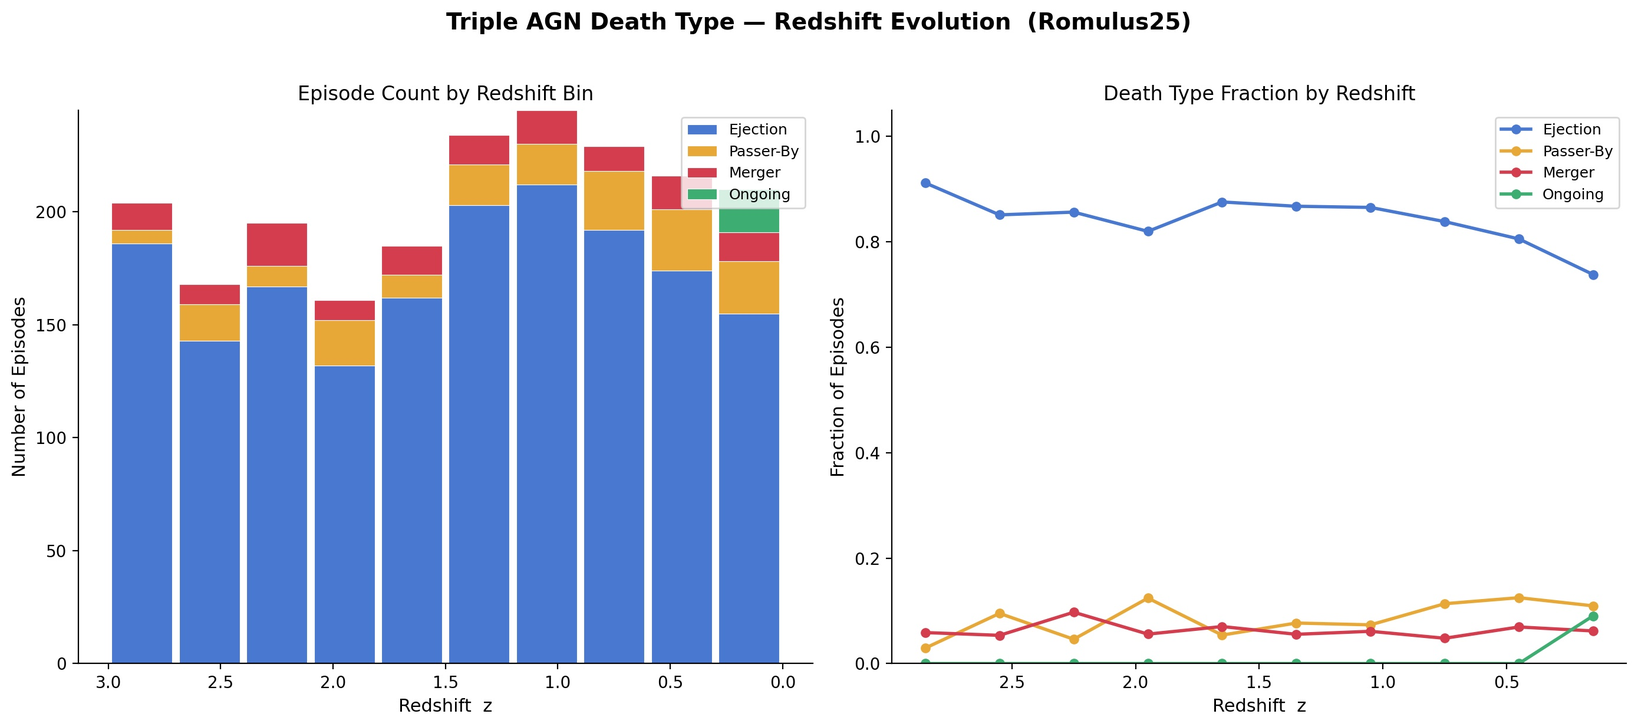
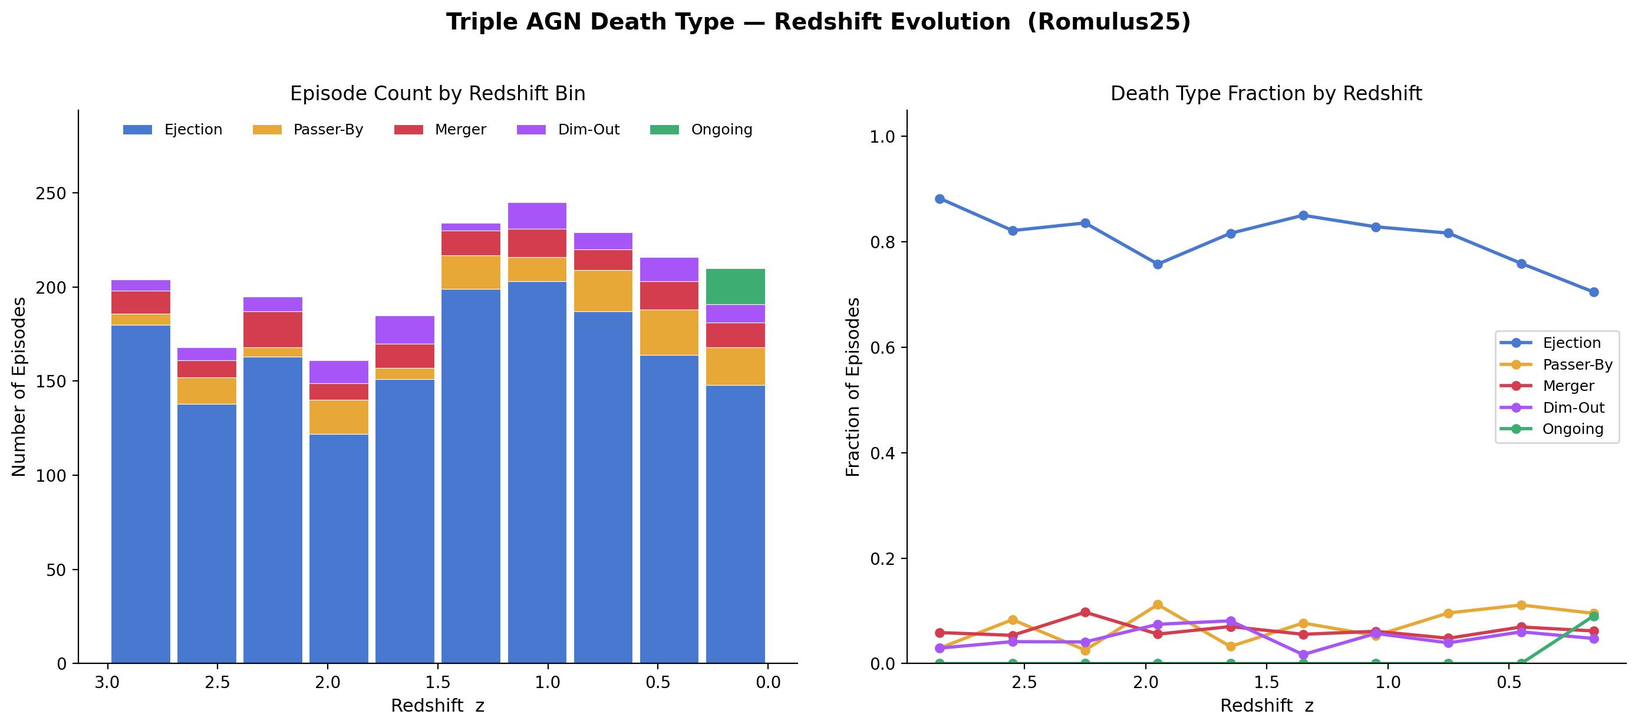
updates

diff --git a/main.tex b/main.tex
@@ -65,7 +65,7 @@ natbib=true
 \maketitle
 
 \begin{abstract}
-Hierarchical galaxy formation naturally predicts the existence of systems hosting multiple supermassive black holes (SMBHs), and when gas is available, such systems may manifest as multiple active galactic nuclei (AGN). While dual AGNs have been studied extensively in both observations and simulations, triple AGN systems remain relatively unexplored, despite their importance for further understanding things like SMBH dynamics and merger-driven accretion. Recent observational discoveries of nearby kpc-scale triple AGNs have highlighted the need for theoretical predictions that place these rare systems in a broader cosmological context. In this work, we investigate the properties of triple AGN systems in the Romulus25 cosmological hydrodynamical simulation. Romulus25 uniquely incorporates a physically motivated treatment of unresolved dynamical friction, enabling SMBHs to remain coupled to their host galaxies and to interact down to sub-kiloparsec scales. Building on previous analyses of dual AGNs in Romulus, we identify candidate triple AGN systems using AGN bolometric luminosity and spatial proximity criteria motivated by observations. We examine their redshift evolution, SMBH masses and luminosities, separations, host halos, lifetimes, and fates, test how the census depends on the luminosity threshold and search radius, and repeat the selection in projection with a cylinder of $30\,\mathrm{kpc}$ radius and $\pm 500\,\mathrm{km\,s^{-1}}$. Above $L_\mathrm{bol} = 10^{40}\,\mathrm{erg\,s^{-1}}$ we find 3,266 triple AGN system-snapshot instances from 1,397 unique systems between $z \approx 0.06$ and $z = 3$, with counts per snapshot rising by a factor of about three toward high redshift, driven mainly by the rising fraction of SMBHs that are accreting. Members typically lie $\sim 3\,\mathrm{kpc}$ apart, and the brightest member carries a median 88\% of the system luminosity. Most triple AGN episodes end because one member falls below the luminosity threshold while all three SMBHs remain together; only 6\% end in a merger and 3\% with a member leaving the $30\,\mathrm{kpc}$ neighbourhood. In projection, 82\% of selected triples are genuine three-dimensional triples and 89\% of genuine triples are recovered. Narrowing the velocity window increases contamination, whereas reducing the aperture radius to $20\,\mathrm{kpc}$ improves both purity and completeness. Radiative transfer of five simulated analogues of the triple merger candidate UGC\,2369S shows that dust absorbs between 24\% and 90\% of their starlight. By providing a systematic census of triple AGNs in a cosmological simulation, this study aims to establish a theoretical baseline for interpreting current observations and to guide future searches for multi-AGN systems.
+Hierarchical galaxy formation naturally predicts the existence of systems hosting multiple supermassive black holes (SMBHs), and when gas is available, such systems may manifest as multiple active galactic nuclei (AGN). While dual AGNs have been studied extensively in both observations and simulations, triple AGN systems remain relatively unexplored, despite their importance for further understanding things like SMBH dynamics and merger-driven accretion. Recent observational discoveries of nearby kpc-scale triple AGNs have highlighted the need for theoretical predictions that place these rare systems in a broader cosmological context. In this work, we investigate the properties of triple AGN systems in the Romulus25 cosmological hydrodynamical simulation. Romulus25 uniquely incorporates a physically motivated treatment of unresolved dynamical friction, enabling SMBHs to remain coupled to their host galaxies and to interact down to sub-kiloparsec scales. Building on previous analyses of dual AGNs in Romulus, we identify candidate triple AGN systems using AGN bolometric luminosity and spatial proximity criteria motivated by observations. We examine their redshift evolution, SMBH masses and luminosities, separations, host halos, lifetimes, and fates, test how the census depends on the luminosity threshold and search radius, and repeat the selection in projection with a cylinder of $30\,\mathrm{kpc}$ radius and $\pm 500\,\mathrm{km\,s^{-1}}$. Above $L_\mathrm{bol} = 10^{40}\,\mathrm{erg\,s^{-1}}$ we find 3,266 triple AGN system-snapshot instances from 1,397 unique systems between $z \approx 0.06$ and $z = 3$, with counts per snapshot rising by a factor of about three toward high redshift, driven mainly by the rising fraction of SMBHs that are accreting. Members typically lie $\sim 3\,\mathrm{kpc}$ apart, and the brightest member carries a median 88\% of the system luminosity. Most triple AGN episodes end because one member falls below the luminosity threshold while all three SMBHs remain together, usually through a drop to well below the threshold, so that only 5\% meet our Dim-Out criterion of a member falling just below it while the other two remain a dual AGN; only 6\% end in a merger and 3\% with a member leaving the $30\,\mathrm{kpc}$ neighbourhood. In projection, 82\% of selected triples are genuine three-dimensional triples and 89\% of genuine triples are recovered. Narrowing the velocity window increases contamination, whereas reducing the aperture radius to $20\,\mathrm{kpc}$ improves both purity and completeness. Radiative transfer of five simulated analogues of the triple merger candidate UGC\,2369S shows that dust absorbs between 24\% and 90\% of their starlight. By providing a systematic census of triple AGNs in a cosmological simulation, this study aims to establish a theoretical baseline for interpreting current observations and to guide future searches for multi-AGN systems.
 
 \end{abstract}
 \vspace{1em} 
@@ -142,7 +142,7 @@ In this paper, we present the first systematic census of triple AGN systems in t
 
 For each identified system we characterise the SMBH masses, bolometric luminosities, pairwise separations, host halo masses, and system lifetimes of all three members. We classify the Host (most massive), Neighbour~1 (N1), and Neighbour~2 (N2) by decreasing SMBH mass. We examine how these properties evolve with redshift and depend on the choice of luminosity threshold and separation cut.
 
-The key findings can be summarised as follows. Triple AGN systems are a natural and recurring product of hierarchical galaxy assembly in Romulus25, with their number density rising steadily from $z = 0$ to $z \approx 3$, mirroring the global rise in AGN activity. They are physically compact, with median pairwise separations of 2.9, 3.2, and 3.8\,kpc for the Host--N1, Host--N2, and N1--N2 pairs respectively, considerably more compact than the currently confirmed observational sample, implying a large population inaccessible to existing surveys. The SMBH mass distribution is asymmetric. The median Host is $\sim 3$ and $\sim 6$ times more massive than N1 and N2 respectively, a contrast that grows to one to two orders of magnitude in halos above $10^{12}\,M_\odot$, while N1 and N2 are drawn from a similar near-seed-mass population. This demonstrates that triple AGN formation does not require (and may in some cases \textit{precede}) significant growth of the secondary and tertiary SMBHs. The majority (61\%) of unique triple AGN systems are single-snapshot detections, reflecting the transient character of low-luminosity triple activity, while the multi-snapshot population has a median span of $1.44\,\mathrm{Gyr}$ from first to last detection and a long tail extending to $\sim 11\,\mathrm{Gyr}$, although these systems are typically detected as triples in only about a third of the snapshots they span. Most triple AGN episodes end when one member falls below the luminosity threshold while all three SMBHs remain within $30\,\mathrm{kpc}$; only 6\% end in a merger and 3\% with a member leaving that neighbourhood. In most systems a single nucleus dominates the light, carrying a median 88\% of the total. Selection in projection recovers 89\% of genuine triples with a purity of 82\%, and a $20\,\mathrm{kpc}$ aperture improves on both.
+The key findings can be summarised as follows. Triple AGN systems are a natural and recurring product of hierarchical galaxy assembly in Romulus25, with their number density rising steadily from $z = 0$ to $z \approx 3$, mirroring the global rise in AGN activity. They are physically compact, with median pairwise separations of 2.9, 3.2, and 3.8\,kpc for the Host--N1, Host--N2, and N1--N2 pairs respectively, considerably more compact than the currently confirmed observational sample, implying a large population inaccessible to existing surveys. The SMBH mass distribution is asymmetric. The median Host is $\sim 3$ and $\sim 6$ times more massive than N1 and N2 respectively, a contrast that grows to one to two orders of magnitude in halos above $10^{12}\,M_\odot$, while N1 and N2 are drawn from a similar near-seed-mass population. This demonstrates that triple AGN formation does not require (and may in some cases \textit{precede}) significant growth of the secondary and tertiary SMBHs. The majority (61\%) of unique triple AGN systems are single-snapshot detections, reflecting the transient character of low-luminosity triple activity, while the multi-snapshot population has a median span of $1.44\,\mathrm{Gyr}$ from first to last detection and a long tail extending to $\sim 11\,\mathrm{Gyr}$, although these systems are typically detected as triples in only about a third of the snapshots they span. Most triple AGN episodes end when one member falls below the luminosity threshold while all three SMBHs remain within $30\,\mathrm{kpc}$, usually by a drop to well below it; a Dim-Out, in which a member falls to just below the threshold while the other two remain a dual AGN, ends 5\% of episodes, a merger 6\%, and the departure of a member only 3\%. In most systems a single nucleus dominates the light, carrying a median 88\% of the total. Selection in projection recovers 89\% of genuine triples with a purity of 82\%, and a $20\,\mathrm{kpc}$ aperture improves on both.
 
 The paper is organized as follows. Section~\ref{sec:methods} describes the Romulus25 simulation, our AGN selection criteria, the triple AGN identification algorithm, and the methodology used to compare the simulated population with observations. Section~\ref{sec:results} presents all results, including the redshift evolution of the triple AGN population (Sections~\ref{subsec:agn_population}--\ref{subsec:frequency}), pairwise separation distributions (Sections~\ref{subsec:separations}--\ref{subsec:sep_halo}), SMBH mass and luminosity properties (Sections~\ref{subsec:bhmass_halo}--\ref{subsec:ratios}), system lifetimes (Section~\ref{subsec:lifetimes}), a case study of one of the longest-lived systems in the simulation (Section~\ref{subsec:case_study}), system fates (Section~\ref{subsec:fates}), the luminosity-independent parent population (Section~\ref{subsec:parent_population}), the dominance of the brightest member (Section~\ref{subsec:brightest_share}), the selection of triple AGN in projection (Sections~\ref{subsec:projected_vs_physical}--\ref{subsec:selection_opt}), and dust attenuation in simulated analogues of UGC\,2369S (Section~\ref{subsec:dust}). Throughout, we adopt the Romulus25 cosmology: $\Omega_m = 0.309$, $\Omega_\Lambda = 0.691$, $H_0 = 67.8\,\mathrm{km\,s^{-1}\,Mpc^{-1}}$. All separations are quoted in physical kiloparsecs and all masses in solar units $M_\odot$.
 
@@ -653,68 +653,68 @@ These gas column density maps represent individual frames from longer time-serie
 \begin{figure}[H]
     \centering
     \includegraphics[width=\columnwidth]{plot_1.jpeg}
-    \caption{Terminal fate classification of all triple AGN episodes, where an episode is a contiguous run of snapshots over which a system continuously satisfies the triple AGN selection criteria. Episodes separated by gaps of three or more consecutive snapshots are treated as distinct events; gaps of two snapshots or fewer are bridged and counted as a single episode, eliminating spurious classifications arising from transient luminosity dropouts. Episodes are classified as Ejection (a residual class in which all three SMBHs survive and the Passer-By test is not met), Passer-By (the same two SMBHs are a dual AGN immediately before and after the episode), Merger (one member is absorbed via direct SMBH coalescence), or Ongoing (the episode is still active at the final catalogued snapshot). The population is dominated by Ejection (84.3\%), with Passer-By (8.5\%), Merger (6.3\%), and Ongoing (0.9\%) contributing the remainder. No episodes fell into the residual Unknown category. The Ejection label is retained for continuity: as Table~\ref{tab:end_states} shows, only 3\% of these episodes involve a member actually leaving the $30\,\mathrm{kpc}$ neighbourhood.}
+    \caption{Terminal fate classification of all 2,047 triple AGN episodes, where an episode is a contiguous run of snapshots over which the same three SMBHs satisfy the triple AGN selection criteria, with gaps of two snapshots or fewer bridged. Fates are assigned at the first usable snapshot after the episode, in the order Ongoing (the episode reaches the final catalogued snapshot), Merger (one member has coalesced with another SMBH), Dim-Out (two members remain a dual AGN while the third has dropped to just below the threshold, $10^{39.7} \leq L_\mathrm{bol} < 10^{40}\,\mathrm{erg\,s^{-1}}$), Passer-By (the same two SMBHs are a dual AGN immediately before and after the episode), and Ejection (all remaining episodes). Ejection accounts for 80.9\% of episodes, Passer-By for 7.1\%, Merger for 6.3\%, Dim-Out for 4.8\%, and Ongoing for 0.9\%.}
     \label{fig:fates}
 \end{figure}
 
-
-
-
-\begin{figure}[]
+\begin{figure*}
     \centering
-    \includegraphics[width=1\linewidth]{plot_rs.jpeg}
-    \caption{Redshift evolution of triple AGN episode fates. Left: Absolute number of episodes in each of ten redshift bins spanning $z = 0$ to $z = 3$, stacked and coloured by terminal fate (Ejection, Passer-By, Merger, Ongoing), as classified in Section~\ref{subsec:fates}. Right: The same data normalised to the fractional breakdown of fates within each redshift bin. Ejection dominates at all redshifts ($\sim 74$--$91\%$). The Merger fraction is small ($\sim 5$--$10\%$) in every redshift bin, with no clear redshift trend. The sharp rise in the Ongoing fraction in the lowest-redshift bin is a right-censoring artefact of the finite redshift range probed by the simulation, rather than a physical signature of enhanced low-redshift stability.}
+    \includegraphics[width=\textwidth]{plot_rs.jpeg}
+    \caption{Redshift evolution of triple AGN episode fates. \textit{Left:} Number of episodes in each of ten redshift bins spanning $z = 0$ to $z = 3$, stacked and coloured by terminal fate as classified in Section~\ref{subsec:fates}. \textit{Right:} The same data as the fraction of episodes in each bin. Ejection dominates at all redshifts (70--88\%). Passer-By (3--11\%), Merger (5--10\%), and Dim-Out (2--8\%) show no clear redshift trend. The rise in the Ongoing fraction in the lowest-redshift bin is an artefact of the catalogue ending at $z \approx 0.06$.}
     \label{fig:fates_z}
-\end{figure}
+\end{figure*}
 
-The lifetime analysis presented in Section~\ref{subsec:lifetimes} characterised how long triple AGN systems persist, but did not address how they cease to satisfy the triple AGN criteria. To close this gap, we classify the fate of every triple AGN episode in the census, an episode being defined as a contiguous run of consecutive snapshots over which a given system continuously satisfies the selection criteria of Section~\ref{subsec:identification}. Gaps of two or fewer consecutive snapshots between appearances of the same system are bridged into a single episode, eliminating spurious classifications that would otherwise arise from transient luminosity dropouts — instances where one member briefly falls below the $10^{40}\,\mathrm{erg\,s^{-1}}$ threshold before recovering within one or two snapshots. Only gaps of three or more consecutive snapshots are treated as genuine dissolutions, generating a new, distinct episode upon the system's reappearance.
+The lifetime analysis presented in Section~\ref{subsec:lifetimes} characterised how long triple AGN systems persist, but did not address how they cease to satisfy the triple AGN criteria. To close this gap, we classify the fate of every triple AGN episode in the census, an episode being defined as a contiguous run of consecutive snapshots over which a given system satisfies the selection criteria of Section~\ref{subsec:identification}. Gaps of two or fewer consecutive snapshots between appearances of the same system are bridged into a single episode, so that a member briefly falling below the $10^{40}\,\mathrm{erg\,s^{-1}}$ threshold for one or two snapshots does not end the episode. Only gaps of three or more consecutive snapshots are treated as genuine dissolutions, generating a new, distinct episode upon the system's reappearance.
 
 Because a single physical configuration of three SMBHs may cease to qualify and later qualify again, the total number of episodes (2,047) exceeds the number of unique triple AGN systems identified in Section~\ref{subsec:lifetimes} (1,397). The difference of 650 episodes represents re-entry events in which the same three SMBHs failed the triple AGN selection criteria for at least three consecutive snapshots before qualifying again. Each episode carries its own terminal fate and is classified independently.
 
-For each episode we determine its terminal fate at the snapshot immediately following its final detection, applying the following classification in priority order. An episode is labelled Ongoing if it is still active at the final catalogued snapshot, such that its ultimate fate lies beyond the redshift range probed by this study. Failing this, an episode is labelled a Merger if one of its three constituent SMBHs is absent from the halo catalogue at the subsequent snapshot, indicating that it has been dynamically merged with and absorbed by another black hole; in all 129 such episodes the missing SMBH never reappears in any later snapshot. An episode is labelled Passer-By if the same two SMBHs were already identified as an active dual AGN in the snapshot immediately preceding the episode and remain an active dual in the snapshot immediately following it, indicating that the status of the pair as a dual AGN outlasted the triple episode. Finally, an episode in which all three SMBHs survive intact and neither the merger nor passer-by conditions are met is labelled an Ejection. We retain this label for continuity, but stress that it is a residual class: the classification does not test where the three SMBHs are after the episode ends. A residual Unknown category is reserved for cases in which the halo catalogue for the subsequent snapshot is unavailable, precluding a definitive classification; no episodes in our census fell into this category, confirming that the AHF halo catalogues are complete across all snapshots used in this analysis.
+For each episode we determine its terminal fate at the first usable snapshot following its final detection, applying the following classification in priority order.
+\begin{enumerate}
+    \item \textbf{Ongoing:} the episode is still active at the final catalogued snapshot, so that its fate lies beyond the redshift range probed by this study.
+    \item \textbf{Merger:} one of the three SMBHs is absent from the black hole catalogue at the following snapshot, indicating that it has coalesced with another black hole. In all 129 such episodes the missing SMBH never reappears in any later snapshot.
+    \item \textbf{Dim-Out:} a member drops just below the detection threshold while the other two remain an active pair. Two conditions must both hold at the following snapshot. First, two of the three SMBHs form a dual AGN in the dual catalogue of Section~\ref{subsec:derived}, that is, they are linked within $30\,\mathrm{kpc}$ with no further AGN attached. Second, the third SMBH is still accreting but below the triple threshold, with $10^{39.7} \leq L_\mathrm{bol} < 10^{40}\,\mathrm{erg\,s^{-1}}$. Luminosities are taken from an AGN catalogue with a floor of $10^{39.7}\,\mathrm{erg\,s^{-1}}$, or computed from the accretion rate in the \textsc{Tangos} database with the same floor where that catalogue is unavailable.
+    \item \textbf{Passer-By:} the same two SMBHs were an active dual AGN in the snapshot immediately preceding the episode and remain an active dual in the snapshot immediately following it, so that the dual outlasted the triple.
+    \item \textbf{Ejection:} all remaining episodes, in which all three SMBHs survive but none of the above conditions is met.
+\end{enumerate}
+A residual Unknown category is reserved for cases in which the black hole catalogue for the following snapshot is unavailable; no episodes in our census fell into this category.
 
-Figure~\ref{fig:fates} shows the resulting distribution of terminal fates across all triple AGN episodes identified in Romulus25. The classification is overwhelmingly dominated by Ejection, which accounts for 1,726 of 2,047 episodes (84.3\%). Passer-By episodes account for a further 173 (8.5\%), while Merger and Ongoing episodes are comparatively rare, at 129 (6.3\%) and 19 (0.9\%) respectively.
+Figure~\ref{fig:fates} shows the resulting distribution of terminal fates. Ejection is the most common, ending 1,655 of the 2,047 episodes (80.9\%). Passer-By and Merger episodes account for 146 (7.1\%) and 129 (6.3\%), Dim-Out for 98 (4.8\%), occurring at least once in 93 of the 1,397 unique systems (6.7\%), and 19 episodes (0.9\%) are Ongoing. The median luminosity of the dimmed member at the following snapshot is $7.3 \times 10^{39}\,\mathrm{erg\,s^{-1}}$. The member that dims out is almost always one of the companions (Figure~\ref{fig:merger_roles}): Neighbour~2 in 65 episodes (66\%), Neighbour~1 in 31 (32\%), and the Host in only 2.
 
-To determine what the Ejection class contains, we examined the three SMBHs at the first usable snapshot after each episode, using their three-dimensional separations and luminosities. Table~\ref{tab:end_states} shows the result. Of the 1,720 Ejection episodes for which all three SMBHs can be measured, 1,279 (74\%) still have one SMBH within $30\,\mathrm{kpc}$ of both others but at least one member has fallen below the luminosity threshold. A further 384 (22\%) have all three members still above the threshold and in the same configuration, and in every one of these an additional AGN lies within $30\,\mathrm{kpc}$ of at least one member, so the system no longer has exactly two AGN neighbours. Only 57 (3\%) have lost the required geometry. The dominant way a triple AGN episode ends is therefore a drop in the accretion rate of one member, not the dynamical removal of a member. This is consistent with the low detection fractions found in Section~\ref{subsec:lifetimes} and with the strong variability of accretion at the fiducial threshold. We note that the state is measured only at the following snapshot, a median of 143\,Myr later, so excursions between snapshots are not captured.
+Despite its name, the Ejection class rarely involves a member leaving the system. Table~\ref{tab:end_states} divides it according to the state of the three SMBHs at the following snapshot, using their luminosities and their three-dimensional separations from the projected master catalogues of Section~\ref{subsec:projected_selection}, pooled over the three viewing axes. In 1,208 of the 1,655 Ejection episodes (73\%), the three SMBHs are still together but at least one member has fallen below the threshold. These do not meet the Dim-Out criteria, in most cases because the member has dropped below $10^{39.7}\,\mathrm{erg\,s^{-1}}$ rather than to just below the threshold; a typical member that switches off falls by two orders of magnitude between snapshots. In a further 384 episodes (23\%), all three members remain above the threshold and in the same configuration, but an additional AGN lies within $30\,\mathrm{kpc}$ of at least one member, so that the system no longer has exactly two AGN neighbours. Only 57 episodes (3\%) end with a member beyond $30\,\mathrm{kpc}$, the case the label was intended to describe. Similarly, 138 of the 146 Passer-By episodes end with the third member below the threshold rather than departed. Over all episodes, a member falls below the threshold while the SMBHs remain together in 1,444 cases (70.5\%), of which 98 meet the Dim-Out criteria, whereas the departure of a member accounts for only 65 (3.2\%). We retain the Ejection label for continuity. The state is measured only at the following snapshot, a median of 143\,Myr later, so excursions between snapshots are not captured.
 
 \begin{table}
     \centering
-    \caption{State of the three SMBHs at the first usable snapshot after each of the 2,047 triple AGN episodes.}
+    \caption{Terminal fates of the 2,047 triple AGN episodes, with the Ejection class divided by the state of the three SMBHs at the following snapshot.}
     \label{tab:end_states}
     \begin{tabular}{lrr}
         \hline
-        End state & $N$ & \% \\
+        Fate & $N$ & \% \\
         \hline
-        Member below threshold, geometry intact & 1,444 & 70.5 \\
-        All still AGN, further AGN within $30\,\mathrm{kpc}$ & 384 & 18.8 \\
+        Ejection & 1,655 & 80.9 \\
+        \quad member below threshold, not Dim-Out & 1,208 & 59.0 \\
+        \quad further AGN within $30\,\mathrm{kpc}$ & 384 & 18.8 \\
+        \quad member beyond $30\,\mathrm{kpc}$ & 57 & 2.8 \\
+        \quad not measurable & 6 & 0.3 \\
+        Passer-By & 146 & 7.1 \\
         Merger & 129 & 6.3 \\
-        Member beyond $30\,\mathrm{kpc}$ & 65 & 3.2 \\
+        Dim-Out & 98 & 4.8 \\
         Ongoing & 19 & 0.9 \\
-        Not measurable & 6 & 0.3 \\
         \hline
     \end{tabular}
 \end{table}
 
-The Passer-By fraction (8.5\%) should be read in the same way. In 165 of these 173 episodes all three SMBHs remain in the same configuration after the episode, with the third member below the luminosity threshold. The label therefore identifies a pair that remains a dual AGN while the accretion of a third, nearby SMBH switches off, rather than a third SMBH physically transiting the pair.
-
 Direct SMBH--SMBH mergers end 6.3\% of episodes. This fraction is not directly comparable to the $\sim 70\%$ of SMBH pairs in dual systems found to eventually merge by \citet{Saeedzadeh2024}. Our figure counts mergers at the snapshot immediately following an episode at a threshold of $10^{40}\,\mathrm{erg\,s^{-1}}$, whereas theirs follows pairs at $10^{43}\,\mathrm{erg\,s^{-1}}$ through to coalescence. Since most episodes end with all three SMBHs still in close proximity, the low merger fraction indicates that episodes usually end before any coalescence, and following the SMBHs beyond the end of each episode would be required to determine how many eventually merge. We also note that Romulus25 merges SMBHs at separations of $0.7\,\mathrm{kpc}$, so these simulations cannot address the three-body hardening of bound binaries at parsec scales discussed in Section~\ref{subsec:triple_theory}.
 
-The small Ongoing fraction (0.9\%) simply reflects right-censoring at the final catalogued snapshot of the simulation and carries no independent physical significance. Figure~\ref{fig:fates_z} examines whether the terminal fate of a triple AGN episode depends on redshift. The left panel shows the absolute number of episodes of each fate type in ten redshift bins spanning $z = 0$ to $z = 3$, while the right panel shows the same information normalised to the fractional breakdown within each bin.
+Among the 129 Merger episodes, the SMBH that disappears is most often Neighbour~1 (59), followed by Neighbour~2 (42) and the Host (28), as shown in the left panel of Figure~\ref{fig:merger_roles}. The Host, which sits deepest in the potential and is the most massive member, is the least likely to be the black hole that is absorbed, consistent with mergers typically consuming one of the two companions into the dominant SMBH. Neighbour~1 is lost more often than Neighbour~2, which may reflect its shorter separation from the Host (Section~\ref{subsec:separations}).
 
-Ejection remains the dominant fate at every redshift probed, consistently accounting for roughly 74--91\% of episodes across the full range shown in the right panel. Within this class, the share of episodes ending because a member has faded falls from 85\% at $z < 0.5$ to 68\% at $z > 2$, while the share ending because a further AGN has joined the system rises from 13\% to 29\%, as expected given the higher AGN number density at early times. The mild redshift dependence visible in the ejection fraction, drifting from $\sim 91\%$ at $z \sim 2.7$--$3$ down to $\sim 74\%$ in the lowest-redshift bin, is compensated primarily by a modest rise in Passer-By and Ongoing episodes at low redshift rather than by any evolution in the Merger channel itself.
+Figure~\ref{fig:fates_z} examines whether the terminal fate of a triple AGN episode depends on redshift. The left panel shows the number of episodes of each fate in ten redshift bins spanning $z = 0$ to $z = 3$, while the right panel shows the same information as the fraction of episodes within each bin. Ejection is the dominant fate at every redshift, accounting for 70--88\% of episodes. The Passer-By fraction lies between 3\% and 11\%, and the Dim-Out fraction between 2\% and 8\%, neither with a clear redshift trend. The Merger fraction likewise remains at 5--10\% in every bin, so direct coalescence within a triple episode is a minor but persistent channel at all epochs probed. The Ongoing fraction is negligible across most of the redshift range but reaches 9\% in the lowest-redshift bin. This is an artefact of the catalogue ending at $z \approx 0.06$: episodes in this bin have the least opportunity to be followed to a terminal fate, and their prevalence should not be interpreted as evidence that low-redshift triple AGN are intrinsically more stable.
 
-The Merger fraction, by contrast, shows no clear redshift trend. It remains small but non-negligible, at $\sim 5$--$10\%$, in every redshift bin from $z = 3$ to $z \approx 0$. Direct coalescence within a triple episode is therefore a minor but persistent channel at all epochs probed, rather than one confined to the early Universe.
-
-The Passer-By fraction fluctuates in the range $\sim 3$--$12\%$ with no strong monotonic trend across redshift. The Ongoing fraction is negligible across most of the redshift range but rises sharply in the lowest-redshift bin, where it accounts for approximately $9\%$ of episodes. This is a right-censoring artefact rather than a physical effect. Episodes in the lowest-redshift bin are, by construction, the ones closest to the final catalogued snapshot ($z \approx 0.06$), and therefore have the least opportunity to be tracked through to a terminal fate before the catalogue ends. This should not be interpreted as evidence that triple AGN systems at low redshift are intrinsically more long-lived or stable than their high-redshift counterparts. Taken together, Figure~\ref{fig:fates_z} demonstrates that the dominance of the Ejection class over Merger holds at all redshifts, with the small Merger channel operating at a similar level throughout.
-
-Among the 129 Merger episodes, the SMBH that disappears is most often Neighbour~1 (59), followed by Neighbour~2 (42) and the Host (28), as shown in Figure~\ref{fig:merger_roles}. The Host, which sits deepest in the potential and is the most massive member, is the least likely to be the black hole that is absorbed, consistent with mergers typically consuming one of the two companions into the dominant SMBH. Neighbour~1 is lost more often than Neighbour~2, which may reflect its shorter separation from the Host (Section~\ref{subsec:separations}).
-
-\begin{figure}[H]
+\begin{figure*}
     \centering
-    \includegraphics[width=0.8\linewidth]{plot12.jpeg}
-    \caption{Membership role of the merging SMBH at the final snapshot of each Merger episode ($N = 129$): Host (28), Neighbour~1 (59), and Neighbour~2 (42). The Host is the member least often lost to direct coalescence.}
+    \includegraphics[width=0.85\textwidth]{plot12.jpeg}
+    \caption{Membership role of the SMBH responsible for ending the episode. \textit{Left:} The SMBH that disappears in each Merger episode ($N = 129$): Host (28), Neighbour~1 (59), and Neighbour~2 (42). \textit{Right:} The member that dims out in each Dim-Out episode ($N = 98$): Host (2), Neighbour~1 (31), and Neighbour~2 (65). Roles are those at the final snapshot of the episode.}
     \label{fig:merger_roles}
-\end{figure}
+\end{figure*}
 
 
 % ------------------------------------------------------------
@@ -1043,7 +1043,10 @@ out of the triple AGN classification.
 
 Of the 2,047 triple AGN episodes in the census, 71\% end with at least
 one member below the luminosity threshold while the three SMBHs remain
-together, and 19\% end when a further AGN joins the system. Only 6\%
+together, and 19\% end when a further AGN joins the system. Only 5\%
+are Dim-Outs, in which a member falls to just below the threshold
+while the other two remain a dual AGN; most members that switch off
+drop to well below the threshold. Only 6\%
 end in a SMBH merger, and only 3\% with a member leaving the
 $30\,\mathrm{kpc}$ neighbourhood. The end of a triple AGN episode
 therefore usually reflects a change in the accretion state of its
